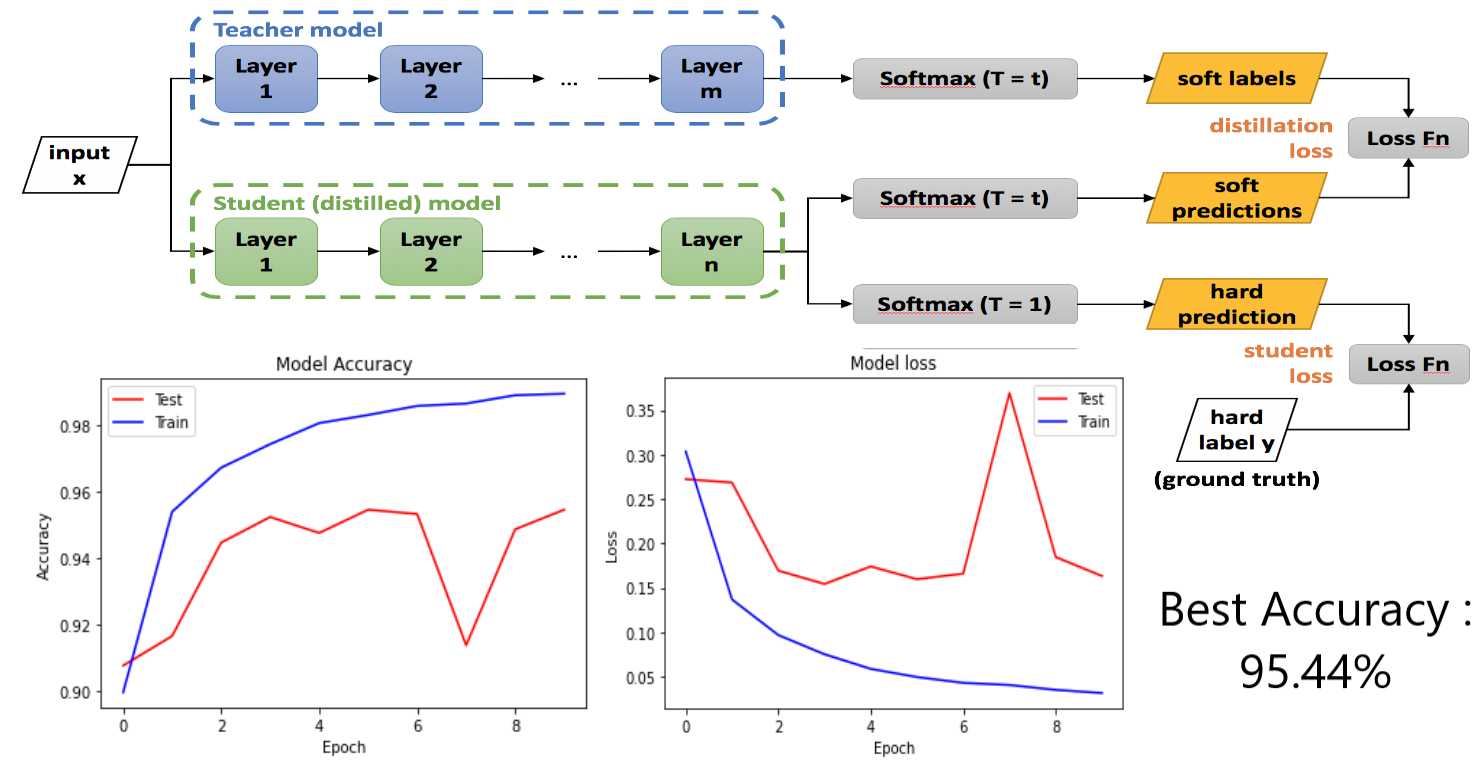
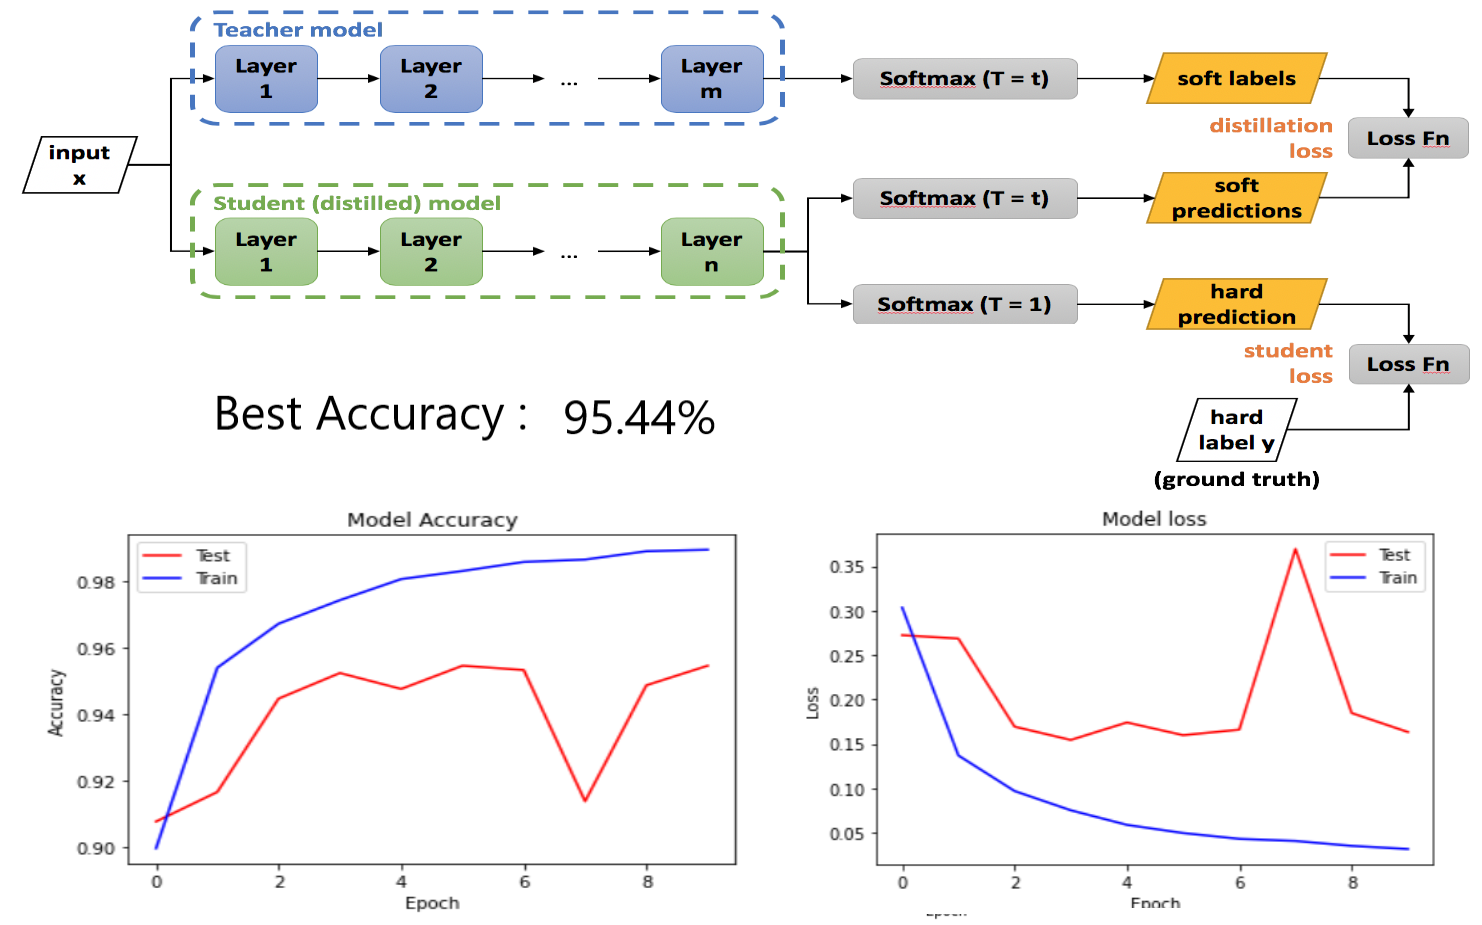
Add 2 projects

diff --git a/src/portfolio.js b/src/portfolio.js
@@ -324,7 +324,7 @@ const works = [
         alignLeft: true
     },
     {
-        projectName: "Knowledge Distillation for Neural Networks",
+        projectName: "Knowledge Distillation for DNN",
         yearCompleted: "2022",
         description: "This project trains smaller neural networks using knowledge distillation from larger models, achieving high accuracy with limited resources. It evaluates performance using metrics and techniques like fine-tuning and dropout.",
         techStack: "Python, CNN",
@@ -361,6 +361,36 @@ const works = [
             }
         ],
         imageLink: "images/Strach.png",
+        alignLeft: true
+    },
+    {
+        projectName: "Predicting World Cup Results",
+        yearCompleted: "2022",
+        description: "This project predicts Iran's results in the 2022 World Cup group stage using historical match data and a neural network built with PyTorch, aiming for at least 60% accuracy.",
+        techStack: "Python, Neural Network, Data Analyze",
+        links: [
+            {
+                label: "",
+                type: "git",
+                url: "https://github.com/Nikelroid/DeepLearning_HW3/blob/main/DL2022_HW2_P2.ipynb"
+            }
+        ],
+        imageLink: "images/FWC.png",
+        alignLeft: false
+    },
+    {
+        projectName: "Hand Gesture Recognition",
+        yearCompleted: "2022",
+        description: "Analyze hand movements to train an MLP for Latin letter recognition using CSV data. Test SGD and ADAM optimizers, add dropout, and aim for 75% test accuracy. Test with webcam inputs.",
+        techStack: "Python, Image Recognition",
+        links: [
+            {
+                label: "",
+                type: "git",
+                url: "https://github.com/Nikelroid/DeepLearning_HW3/blob/main/DL2022_HW2_P3.ipynb"
+            }
+        ],
+        imageLink: "images/Alphabet.png",
         alignLeft: true
     }
 ]
